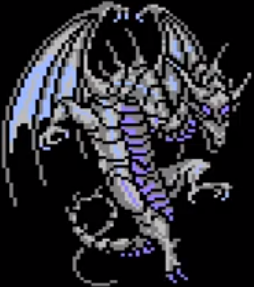
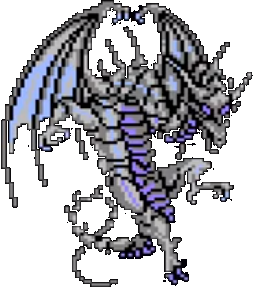
BG imageを表示することに成功した。ついでに、キャラの背景を透明にした。 	modified:   2019-1.html 	new file:   README.md 	modified:   css1.css 	modified:   images/bahamuto.png 	new file:   images/bahamutoBG.png 	modified:   images/bahamutoTori.png 	modified:   images/cleared.png 	modified:   images/senshi.png 	modified:   qmain.js

diff --git a/practice/questions/qmain.js b/practice/questions/qmain.js
@@ -332,7 +332,7 @@ Words.prototype.correct = function() {
 
 		this.eE.vibrate();
 		/*敵との距離*/
-		const dist = this.eE.parentNode.offsetWidth * 2 - 200 - this.eE.width - this.eH.width;
+		const dist = this.eE.parentNode.offsetWidth - 200 - this.eE.width - this.eH.width;
 		this.eH.move(-dist,0,0.1);
 		if(flag) {
 			/*戦闘終了*/
@@ -391,7 +391,7 @@ Words.prototype.incorrect = function() {
 		this.audioI.currentTime = 0;
 		this.audioI.play();
 		/*敵との距離*/
-		const dist = this.eE.parentNode.offsetWidth * 2 - 200 - this.eE.width - this.eH.width;
+		const dist = this.eE.parentNode.offsetWidth - 200 - this.eE.width - this.eH.width;
 		this.eE.move(dist,0,0.1);
 		this.eH.vibrate();
 		let date = new Date();
@@ -565,15 +565,18 @@ const setTitle = function(element) {
 };
 
 
-Image.TOP = 0;
-Image.MIDDLE = 1;
-Image.BOTTOM = 2;
 
 /**********************************************************
  * 指定時間後に画像を切り替えます
+ ** (Number) time : 秒 この時間経過後に表示する。
+ ** (Number) posTB : Imageのプロパティーのうち(TOP,MIDDLE,BOTTOM)のどれか。親エレメント内における上下の位置
+ ** (Number) posLR : ピクセル 親エレメントにおける左右の位置 プラスなら左から、マイナスなら右からの移動量を示す
  **********************************************************/
+Image.TOP = 0;
+Image.MIDDLE = 1;
+Image.BOTTOM = 2;
 Image.prototype.appearElement = function(sFilename,time,posTB,posLR) {	
-	let nn,sTop;
+	let nn,sTop,sLeft;
 
 	if(posTB == Image.TOP) nn = 0;
 	else if (posTB == Image.MIDDLE) nn = 0.5;
@@ -581,13 +584,14 @@ Image.prototype.appearElement = function(sFilename,time,posTB,posLR) {
 	else console.error('\'posTB\' is not TOP,MIDDLE nor BOTTOM');
 
 	let parentWidth = this.parentNode.offsetWidth;
-	let sLeft;
+	let parentHeight = this.parentNode.offsetHeight;
 	const hogeFlag = setInterval(()=>{
 		clearInterval(hogeFlag);
 		this.onload = function() {
-			if(posLR < 0) sLeft = 'left:' + (parentWidth - this.width + posLR).toString() + 'px;';
-			else sLeft = 'left:' + posLR.toString() + 'px;';
-			sTop = 'top:' + ((this.parentNode.offsetHeight - this.height) * nn).toString() + 'px;';
+//			if(posLR < 0) sLeft = 'left:' + (parentWidth - this.width + posLR).toString() + 'px;';
+//			else sLeft = 'left:' + posLR.toString() + 'px;';
+			sLeft = 'left:' + posLR.toString() + 'px;';
+			sTop = 'top:' + ((parentHeight - this.height) * nn).toString() + 'px;';
 			this.style = 'opacity:1.0;position:relative;'+sTop+sLeft;
 		}
 		this.src = sFilename;
@@ -625,9 +629,9 @@ Image.prototype.disappear = function(time) {
 Image.prototype.vibrate = function() {
 	const wide = 15;/*揺れ幅*/
 	const beforeLeft = this.style.left;
-	const left = Number(beforeLeft.match(/\d+/)[0]);
+	const left = Number(beforeLeft.match(/\-*\d+(?:\.\d+)*/)[0]);
 	const beforeTop = this.style.top;
-	const top = Number(beforeTop.match(/\d+/)[0]);
+	const top = Number(beforeTop.match(/\-*\d+(?:\.\d+)*/)[0]);
 	const height = this.height;
 	let parentHeight = this.parentNode.offsetHeight;
 	let sTop = 'top:'+ ((parentHeight - height)*0.5).toString() + 'px;';
@@ -658,10 +662,10 @@ Image.prototype.move = function(xx,yy,time) {
 	let sLeft='',sTop='';
 	const div = 10;/*コマの数*/
 	const beforeTop = this.style.top;
-	const top = Number(beforeTop.match(/\d+/)[0]);
+	const top = Number(beforeTop.match(/\-*\d+(?:\.\d+)*/)[0]);
 	const ddy = yy / div;
 	const beforeLeft = this.style.left;
-	const left = Number(beforeLeft.match(/\d+/)[0]);
+	const left = Number(beforeLeft.match(/\-*\d+(?:\.\d+)*/)[0]);
 	const ddx = xx / div;
 	let count = 0;
 	const myself = this;
@@ -685,14 +689,14 @@ Image.prototype.move = function(xx,yy,time) {
 			sLeft = 'left:' + (Math.round(left + ddx * count)).toString() + 'px;';
 			sTop = 'top:' + (Math.round(top + ddy * count)).toString() + 'px;';
 		}
-		myself.style = 'position:relative;' + sTop + ';' + sLeft;
+		myself.style = 'position:relative;' + sTop + sLeft;
 
 
 	},time*1000/div);
 };
 
-const prepareField = function(eE,eH) {
-	const sStyleWidth = (document.getElementsByTagName('body')[0].offsetWidth * .5).toString() + 'px';
-	eE.style.width = sStyleWidth;
-	eH.style.width = sStyleWidth;
+const prepareField = function(elementDiv) {
+	const eBody = document.getElementsByTagName('body')[0]
+	elementDiv.style.width = (eBody.offsetWidth - 0).toString() + 'px';
+	elementDiv.style.height = '400px';
 };

diff --git a/practice/questions/2019-1.html b/practice/questions/2019-1.html
@@ -92,9 +92,8 @@ onload = function() {
 	setTitle(ele);
 
 	/*battle fieldの用意*/
-	const eEnemyDiv = document.getElementById('enemyDiv');
-	const eHeroDiv = document.getElementById('heroDiv');
-	prepareField(eEnemyDiv,eHeroDiv);
+	const eFieldDiv = document.getElementById('battleField');
+	prepareField(eFieldDiv);
 	//window.addEventListener('resize',prepareField);
 
 	/*キャラクターの用意*/
@@ -125,13 +124,9 @@ onload = function() {
 		～<h1 id="date" style="display:inline;"></h1>～
 		<h1>バハムートへの挑戦状</h1>
 
-		<div style="background-color:black;">
-			<div id="enemyDiv" style="background-color:black;height:400px;">
+		<div id="battleField" style="background-color:black;">
 				<img id="enemy">
-			</div>
-			<div id="heroDiv" style="background-color:black;height:400px;">
-				<img id="hero">
-			</div>
+				<img id="hero" >
 			<div class="clearFloat"></div>
 		</div>
 

diff --git a/practice/questions/css1.css b/practice/questions/css1.css
@@ -1,8 +1,15 @@
-#enemyDiv {
-	float:left;
 
+body {
+	background-color:black;
+	color:white;
 }
-#heroDiv {
+#battleField {
+	background-image: url('images/bahamutoBG.png');
+}
+#enemy {
+	float:left;
+}
+#hero {
 	float:right;
 }
 .clearFloat {

diff --git a/practice/questions/README.md b/practice/questions/README.md
@@ -1,0 +1,3 @@
+
+背景を入れるために試験します
+
